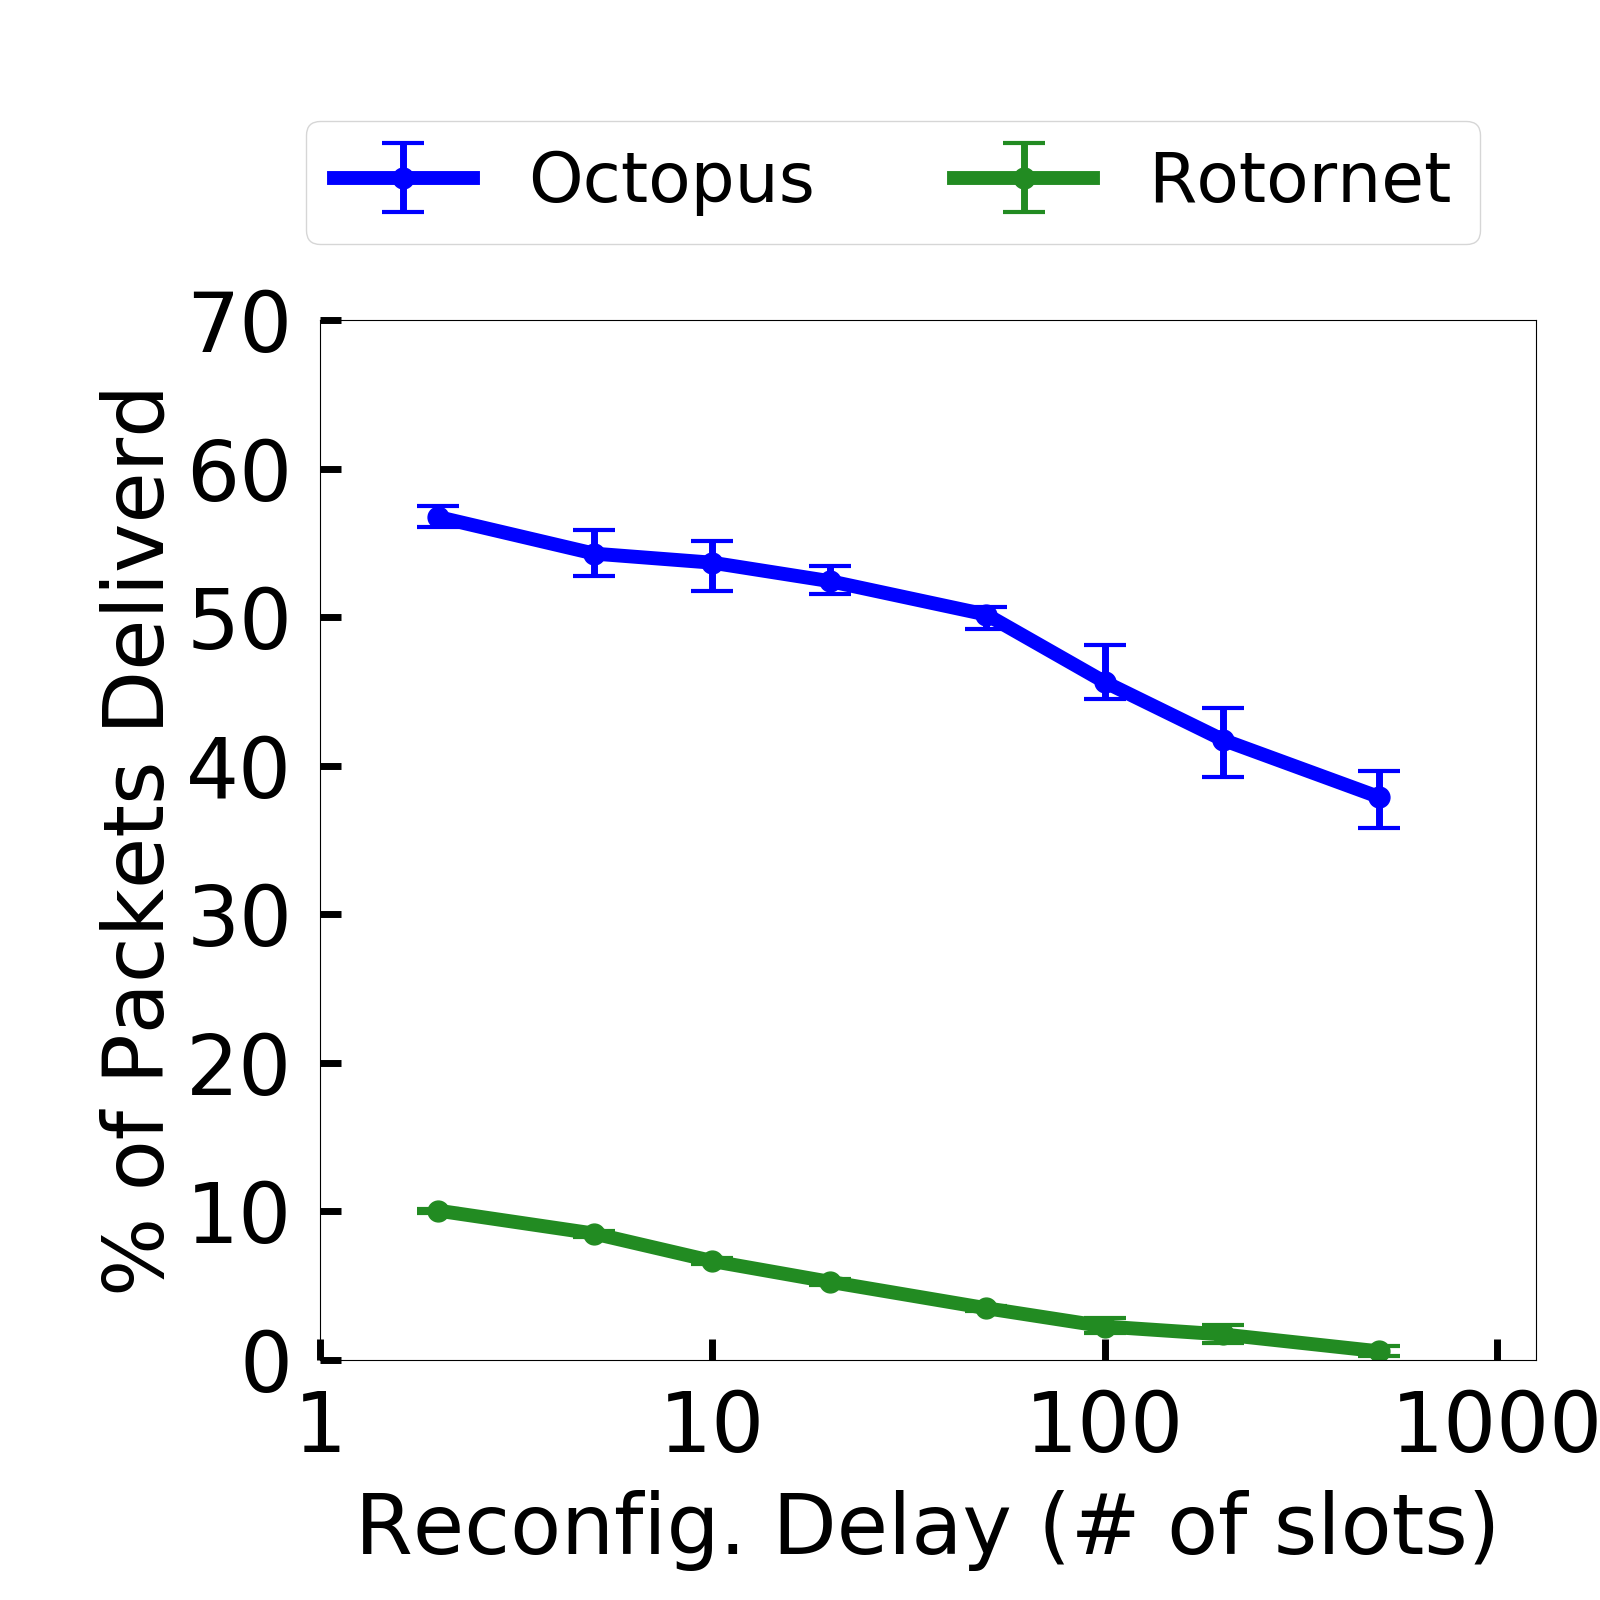
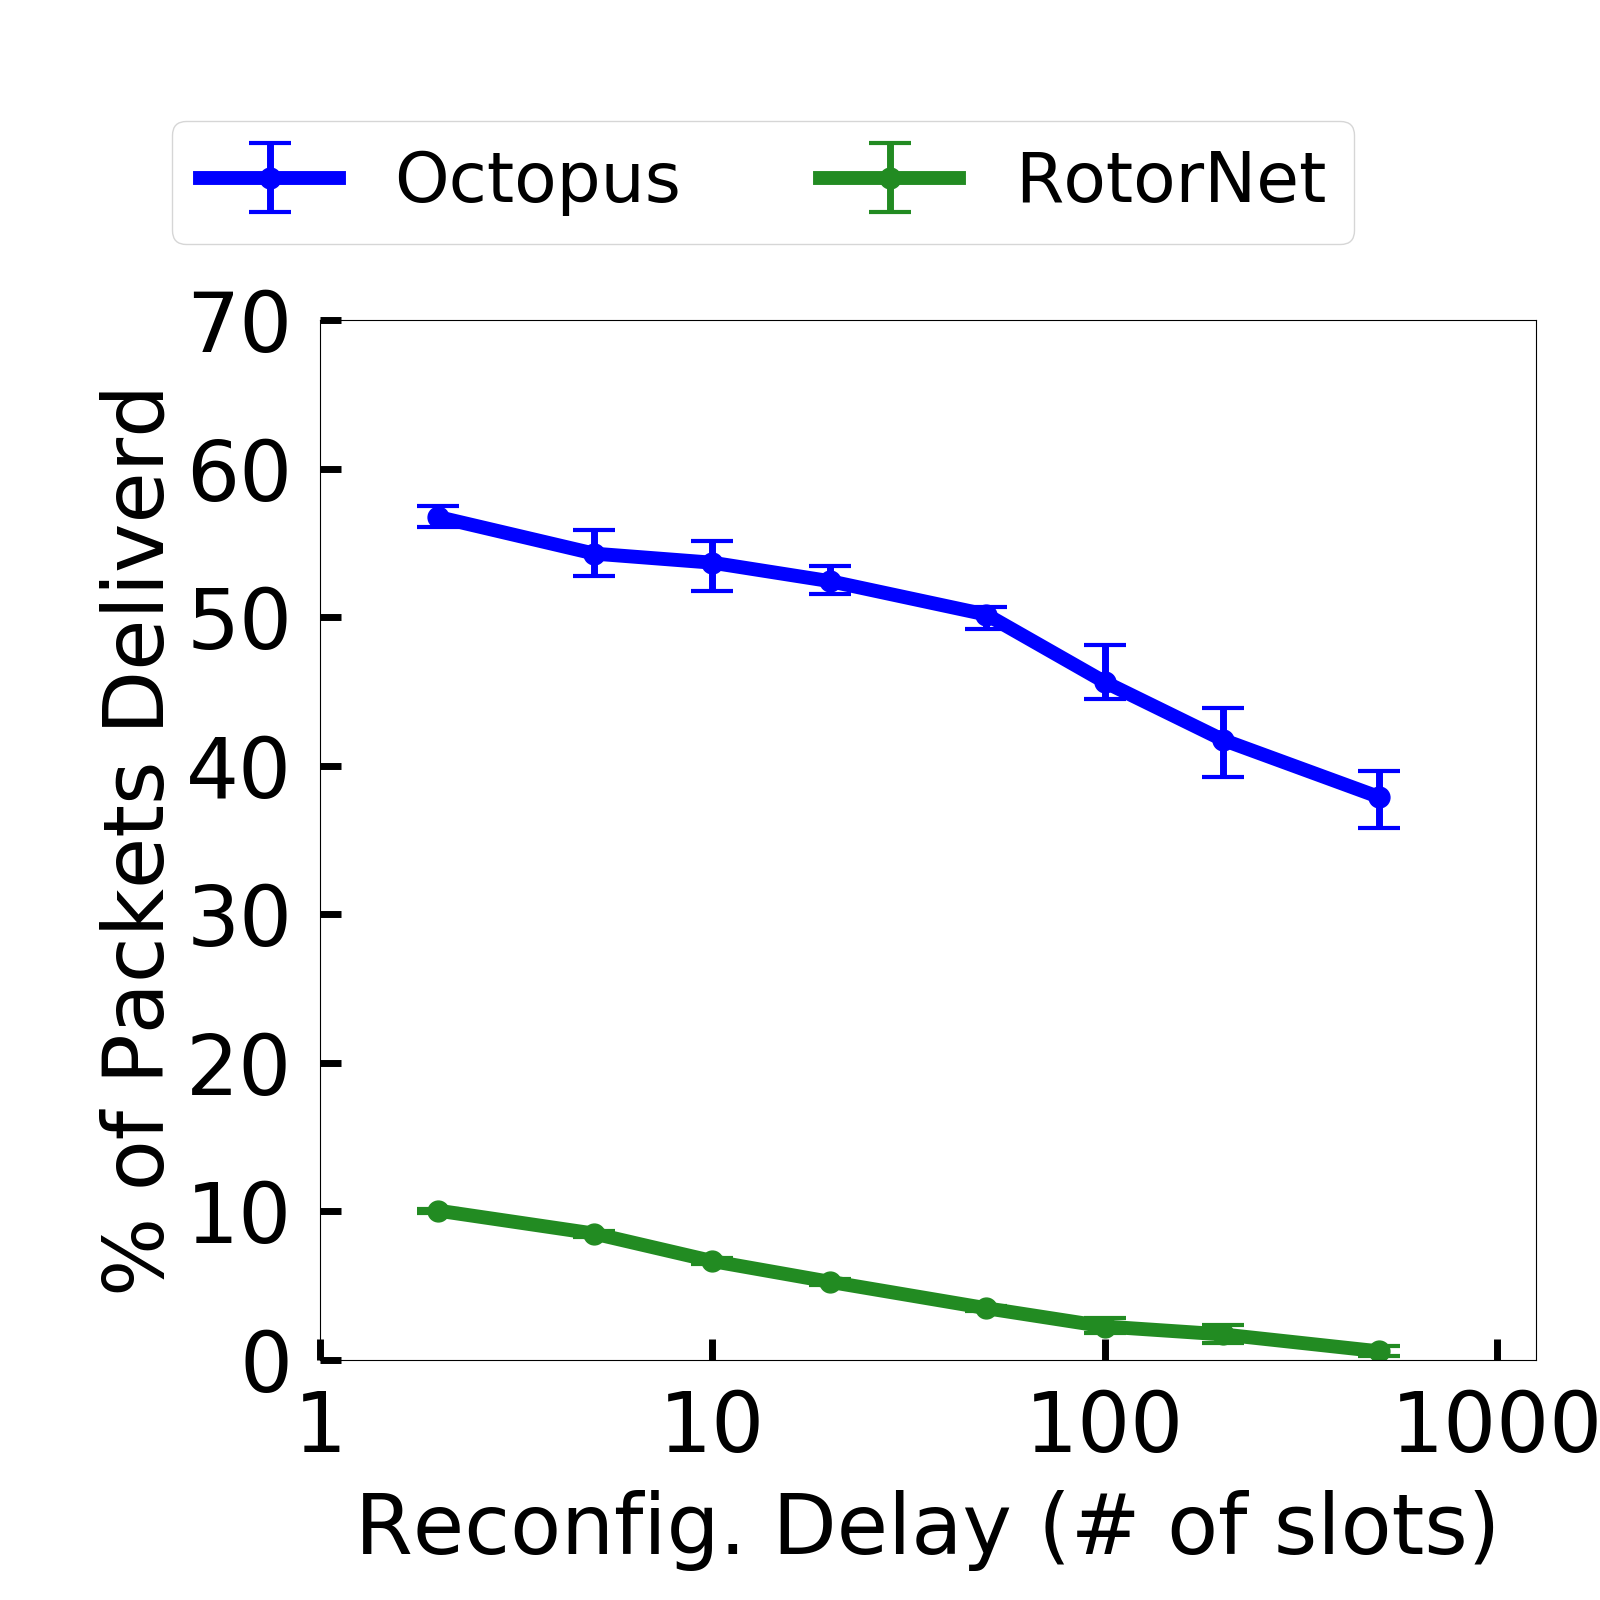
minor update

Changed region(s): [[0.125, 0.0938, 0.9062, 0.1562]]

diff --git a/plots.py b/plots.py
@@ -49,7 +49,7 @@ def y_fmt(tick_val, pos):
 
 # _MARKER = ['o',       'h',        's',         '^',             'D',       'P']
 
-METHOD  = ['Octopus-Random', 'Octopus', 'Octopus+', 'Octopus-e', 'Octopus-B', 'Eclipse-Based', 'UB',      'Absolute-UB', 'Projector', 'Octopus-G', 'Rotornet']
+METHOD  = ['Octopus-Random', 'Octopus', 'Octopus+', 'Octopus-e', 'Octopus-B', 'Eclipse-Based', 'UB',      'Absolute-UB', 'Projector', 'Octopus-G', 'RotorNet']
 _COLOR  = ['b',              'b',       'c',        'gray',      'k',         'g',             'orange',  'r',           'purple',    'cyan',      'forestgreen']
 _MARKER = ['o',              'o',       'o',        'o',         'o',         'o',             'o',       'o',           'o',         'o',         'o']
 _LINE   = ['-',              '-',       ':',        ':',         ':',         ':',             ':',       '-',           '-',         '-',         '-']
@@ -114,7 +114,7 @@ def plot_line(table, methods, filename=None, x_label=None, x_log=False, y_label=
 
 	if absolute_ub and y_label == '% of Packets Deliverd':
 		method = 'Absolute-UB'
-		if x_label != 'Average # of hops' and ('Octopus-B' not in methods) and ('Rotornet' not in methods) and ('Octopus-G' not in methods):
+		if x_label != 'Average # of hops' and ('Octopus-B' not in methods) and ('RotorNet' not in methods) and ('Octopus-G' not in methods):
 			y = [66 for _ in X]
 			plt.plot(X, y, linestyle=LINE[method], marker=MARKER[method], color=COLOR[method], label=method)
 		if x_label == 'Average # of hops':
@@ -536,7 +536,7 @@ def oneshot_revision_rotornet(path):
 	# methods  = ['eclipse'      , 'octopus-r', 'upper-bound']
 	# methods_ = ['Eclipse-Based', 'Octopus',   'UB']
 	methods  = ['octopus-r', 'rotornet']
-	methods_ = ['Octopus',   'Rotornet']
+	methods_ = ['Octopus',   'RotorNet']
 	metric   = ['percent_packets_delivered', 'link_utilization']
 	metric_  = ['% of Packets Deliverd',     'Link Utilization (%)']
 
@@ -607,8 +607,8 @@ if __name__ == '__main__':
 	# path = 'data/9-22-slow'
 	# oneshot_revision_projector(path)
 
-	# path = 'data/9-23-slow-rotor'
-	# oneshot_revision_rotornet(path)
+	path = 'data/9-23-slow-rotor'
+	oneshot_revision_rotornet(path)
 
-	path = 'data/10-8-greedy'
-	oneshot_revision_greedy(path)
+	# path = 'data/10-8-greedy'
+	# oneshot_revision_greedy(path)
